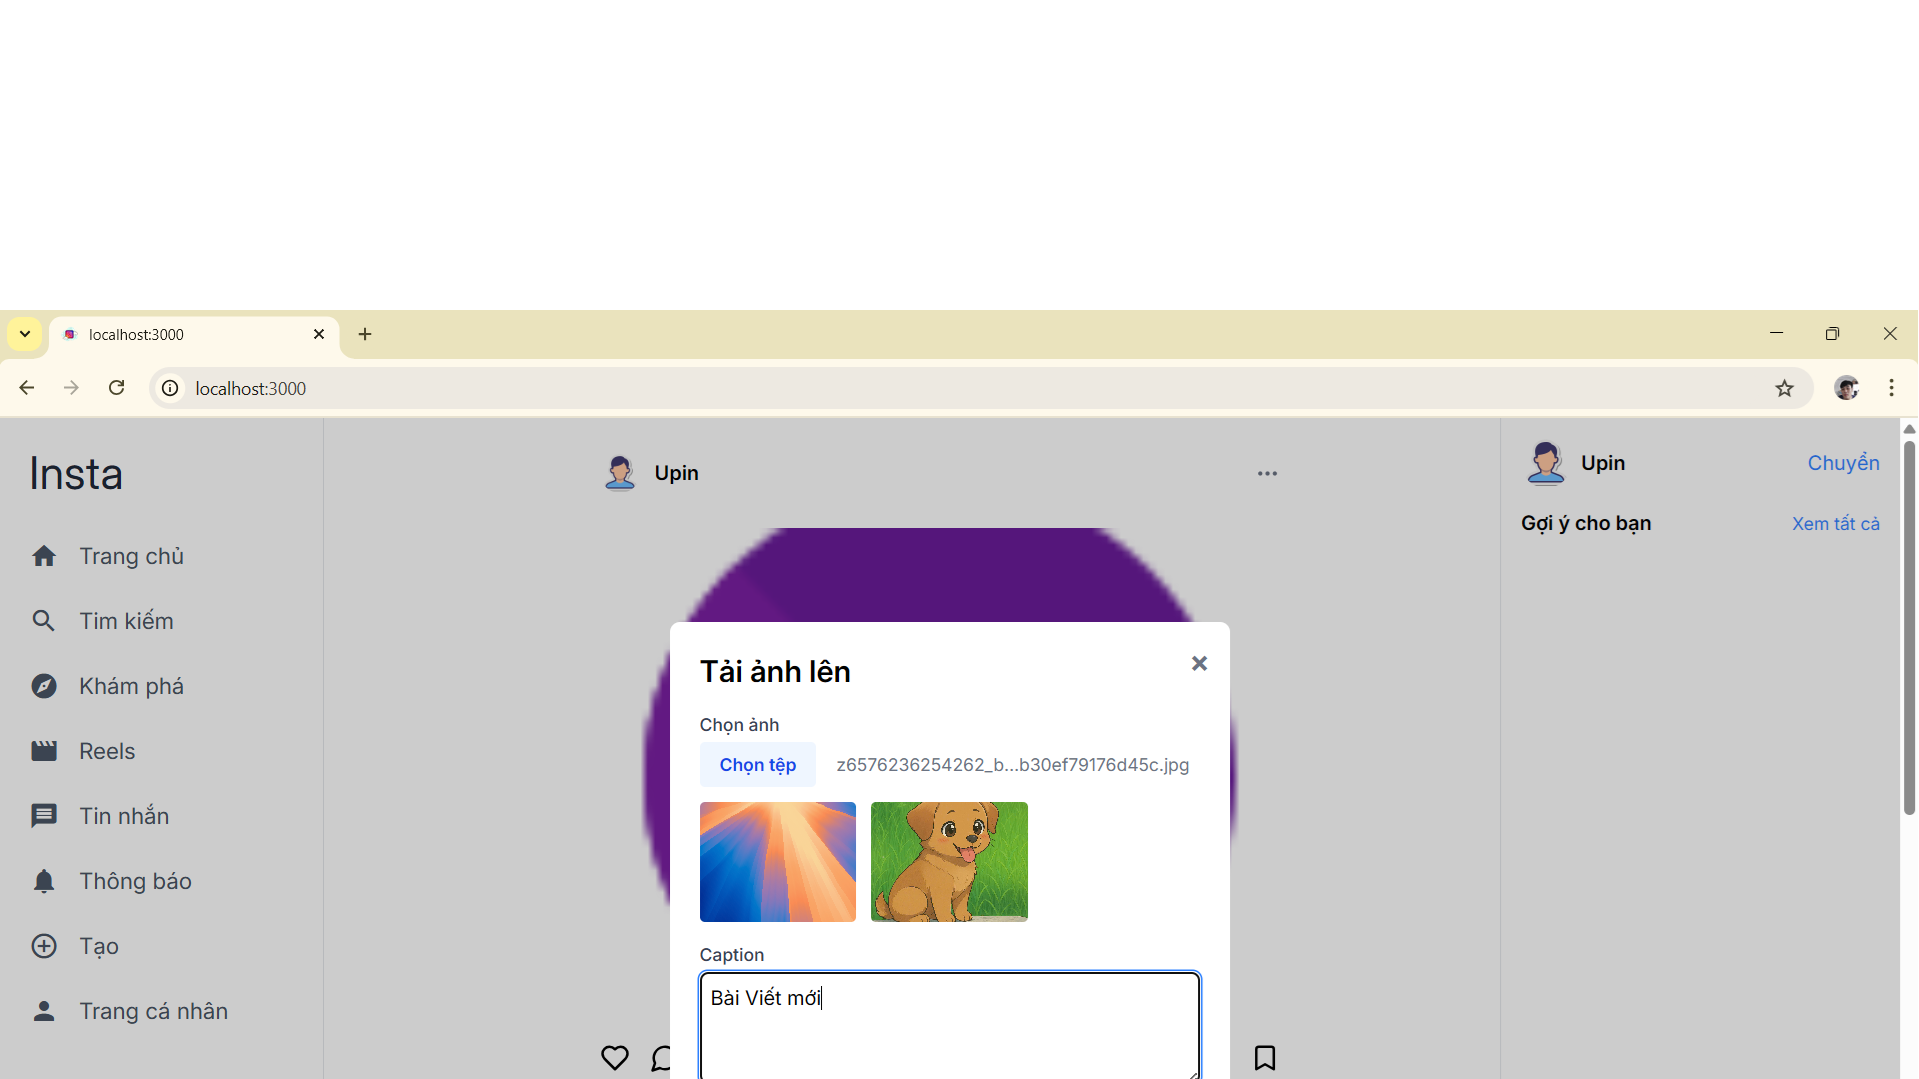
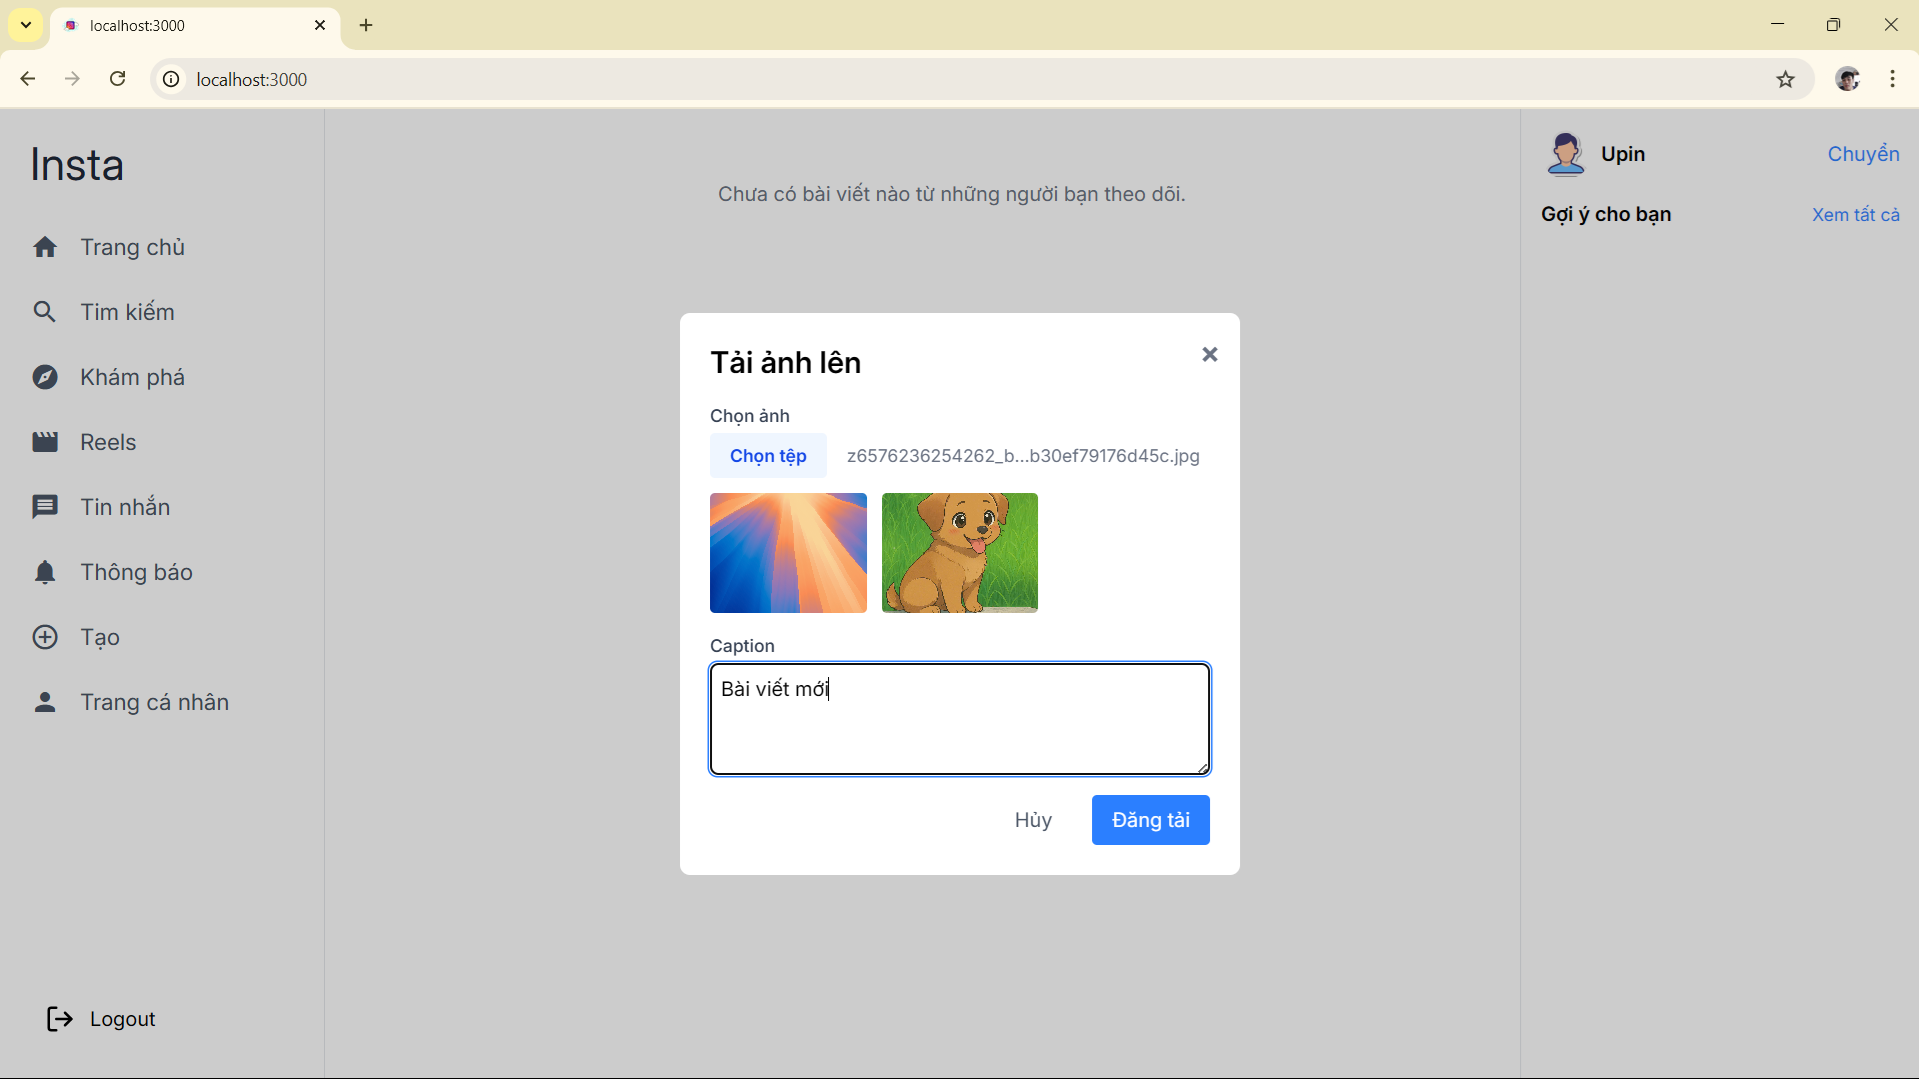
update readme

diff --git a/README.md b/README.md
@@ -22,15 +22,28 @@
         <li><a href="#installation">Installation</a></li>
       </ul>
     </li>
-    <li><a href="#usage">Usage</a></li>
     <li><a href="#roadmap">Roadmap</a></li>
     <li><a href="#license">License</a></li>
-    <li><a href="#contact">Contact</a></li>
   </ol>
 </details>
 
 <!-- ABOUT THE PROJECT -->
 ## About The Project
+This is a full-stack social media web application built with React.js for the frontend and Spring Boot for the backend. The platform provides essential features for user interaction and content sharing, including:
+
+- User authentication and registration, supporting both traditional email/password and Google OAuth login.
+
+- A guided onboarding process for new users after login.
+
+- Users can create posts with images and captions, and engage by liking or commenting on others' posts.
+
+- A follow/unfollow system allows users to manage their social network.
+
+- A personalized newsfeed displays posts from followed users to ensure a smooth and relevant browsing experience.
+
+- A built-in chat system enables real-time messaging between users.
+
+This project showcases my ability to integrate frontend and backend technologies to build a feature-rich, interactive web application with a strong focus on user experience and modern development practices.
 
 <!-- Demo Images Grid -->
 <div align="center">
@@ -38,35 +51,23 @@
     <tr>
       <td align="center">
         <img src="docs/login.png" alt="Demo 1" width="300" height="200" />
-        <br />
-        <em>Home Screen</em>
       </td>
       <td align="center">
         <img src="docs/register.png" alt="Demo 2" width="300" height="200" />
-        <br />
-        <em>Profile Page</em>
       </td>
       <td align="center">
-        <img src="docs/demo3.png" alt="Demo 3" width="300" height="200" />
-        <br />
-        <em>Upload Feature</em>
+        <img src="docs/home.png" alt="Demo 3" width="300" height="200" />
       </td>
     </tr>
     <tr>
       <td align="center">
-        <img src="docs/demo4.png" alt="Demo 4" width="300" height="200" />
-        <br />
-        <em>News Feed</em>
+        <img src="docs/create.png" alt="Demo 4" width="300" height="200" />
       </td>
       <td align="center">
-        <img src="docs/demo5.png" alt="Demo 5" width="300" height="200" />
-        <br />
-        <em>Comments</em>
+        <img src="docs/profile.png" alt="Demo 5" width="300" height="200" />
       </td>
       <td align="center">
-        <img src="docs/demo6.png" alt="Demo 6" width="300" height="200" />
-        <br />
-        <em>Search</em>
+        <img src="docs/chat.png" alt="Demo 6" width="300" height="200" />
       </td>
     </tr>
   </table>
@@ -111,13 +112,47 @@
 
 ## Getting Started
 
+### Prerequisites
+- Java 17+
+- MySQL 8+
+- Node.js 18+
+- Redis 7+
+- Docker (optional, for containerization)
 
-## Usage
+### Installation
+1. Clone the repo
+   ```sh
+   git clone https://github.com/upinmcSE/Insta.git
+   ```
+2. Navigate to the frontend directory to install dependencies and run
+    ```sh
+      cd frontend
+      npm install
+      npm run dev
+    ```
+3. Start the required services using Docker Compose  
+   ```sh
+      cd docker
+      docker-compose up -d
+   ```
+4. Run the Spring Boot backend application
+   ```sh
+      cd backend
+      ./mvnw spring-boot:run
+   ```
 
 ## Roadmap
+- [x] Users can create, login 
+- [x] Users can update profile
+- [x] Users can create post with images and caption
+- [x] Users can view newfeed
+- [x] Users can like and comment of others
+- [x] Users can search for the people they want
+- [x] Users can chat with each other
+- [x] Users can receive notifications when someone likes and comments on their posts.
+- [ ] Better UI/UX improvements
+- [ ] Add more features upload video, reels , etc.
 
-## Licensen
 
-## Contact
-
-
+## License
+[MIT](https://choosealicense.com/licenses/mit/)
